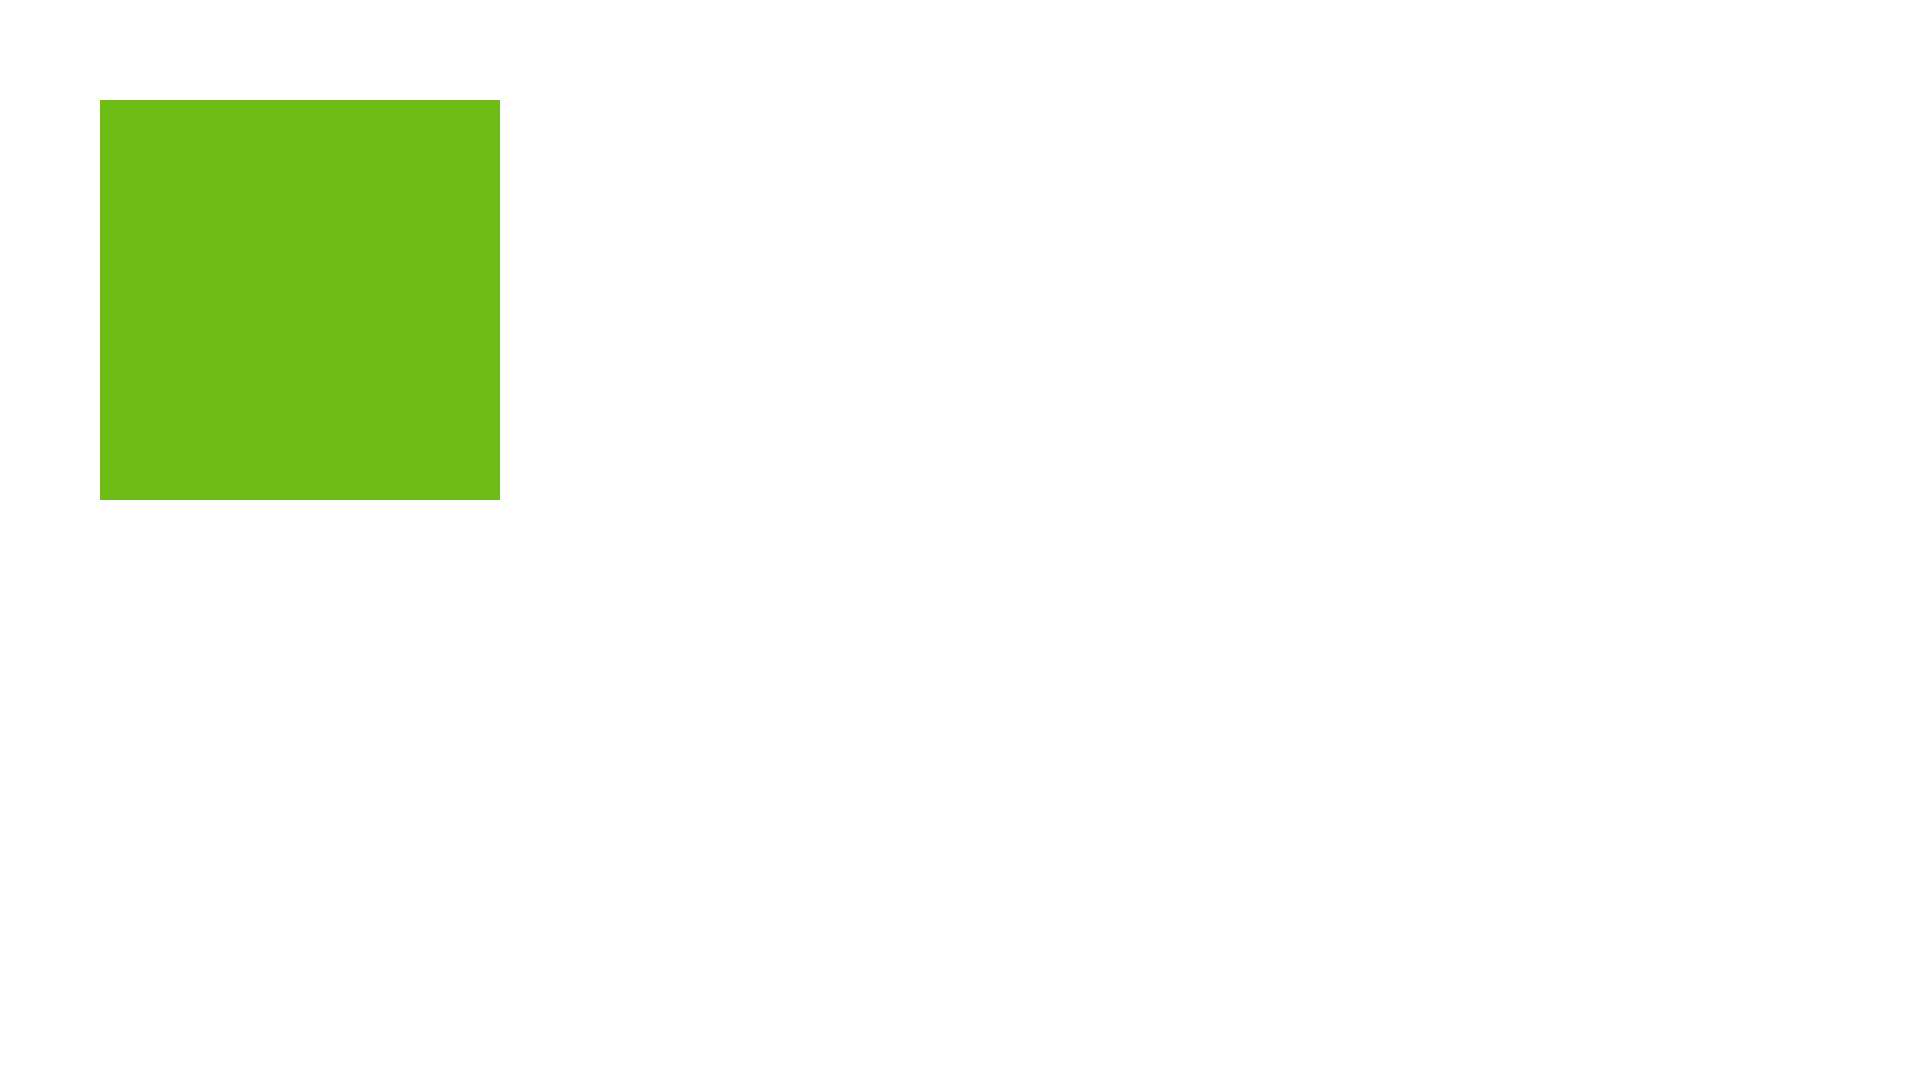
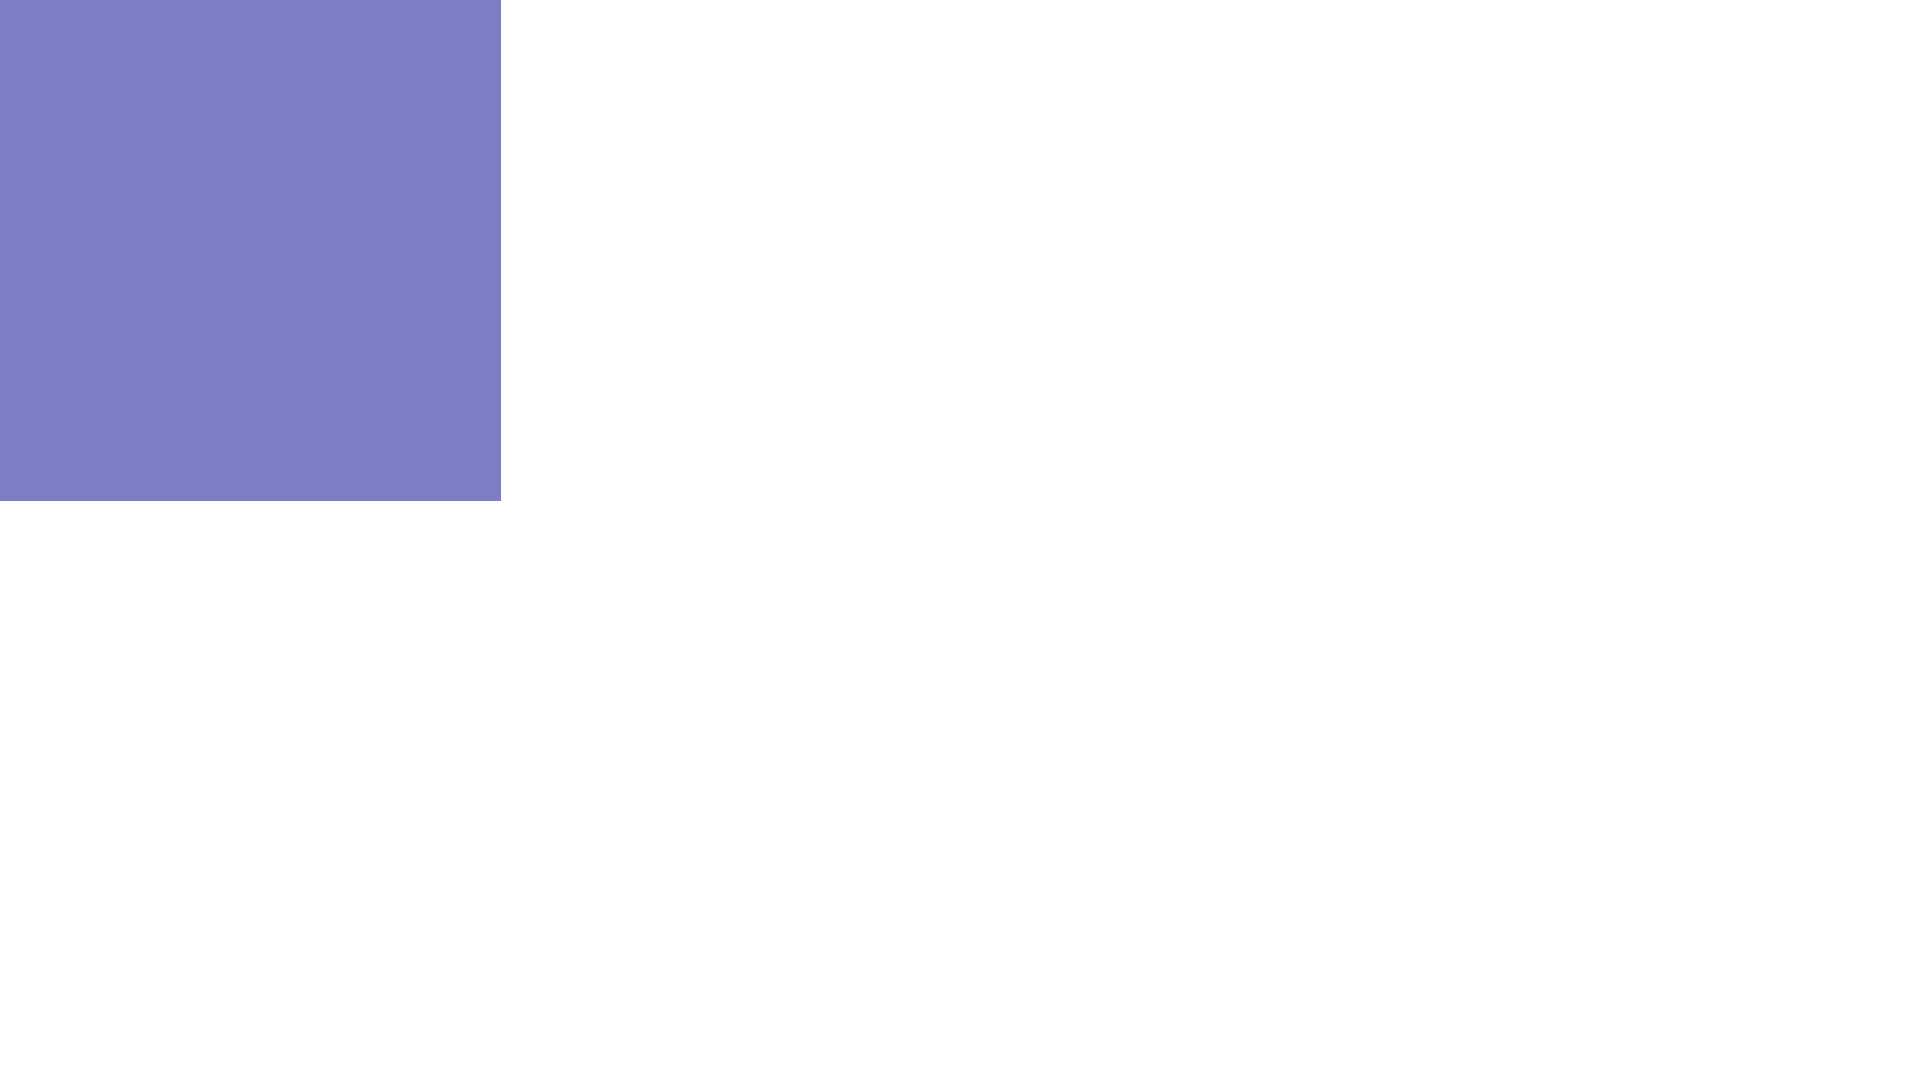
rework api entirely just because

Changed region(s): [[0.0, 0.0, 0.2812, 0.4889]]

diff --git a/rect.go b/rect.go
@@ -6,36 +6,17 @@ import (
 )
 
 type Rectangle struct {
-	Position Vector2     // The top-left corner of the rectangle
-	Size     Vector2     // The height and the width of the rectangle
-	Color    color.NRGBA // Fill color
+	Min   Vector2
+	Max   Vector2
+	Color color.NRGBA
 }
 
-func (r Rectangle) Render() *image.NRGBA {
-	img := image.NewNRGBA(r.GetBounds())
-	for y := 0; y < r.Size.Y; y++ {
-		for x := 0; x < r.Size.X; x++ {
+func (r Rectangle) Render(size Vector2) image.NRGBA {
+	img := image.NewNRGBA(image.Rect(0, 0, size.X, size.Y))
+	for y := r.Min.Y; y <= r.Max.Y; y++ {
+		for x := r.Min.X; x <= r.Max.X; x++ {
 			img.Set(x, y, r.Color)
 		}
 	}
-	return img
-}
-
-// Get the bounds of the rectangle
-func (r Rectangle) GetBounds() image.Rectangle {
-	return image.Rect(
-		0,
-		0,
-		r.Size.X,
-		r.Size.Y,
-	)
-}
-
-func (r Rectangle) GetRect() image.Rectangle {
-	return image.Rect(
-		r.Position.X,
-		r.Position.Y,
-		r.Position.X+r.Size.X,
-		r.Position.Y+r.Size.Y,
-	)
+	return *img
 }

diff --git a/main.go b/main.go
@@ -10,32 +10,37 @@ import (
 )
 
 // Draw the main image. Will be replaced with json later
-func draw() *image.NRGBA {
+func drawProject() image.NRGBA {
 	project := Project{
 		Resolution: Vector2{1920, 1080},
 		Main: Group{
 			Size: Vector2{1920, 1080},
 			Children: []Object{
 				Rectangle{
-					Position: Vector2{100, 100},
-					Size:     Vector2{500, 500},
-					Color:    color.NRGBA{R: 111, G: 188, B: 22, A: math.MaxUint8},
+					Min: Vector2{0, 0},
+					Max: Vector2{500, 500},
+					Color: color.NRGBA{
+						R: 123,
+						G: 126,
+						B: 199,
+						A: math.MaxUint8,
+					},
 				},
 			},
 		},
 	}
-	return project.Main.Render()
+	return project.Draw()
 }
 
 func main() {
-	img := draw()
+	img := drawProject()
 
 	f, err := os.Create("image.png")
 	if err != nil {
 		log.Fatal(err)
 	}
 
-	if err := png.Encode(f, img); err != nil {
+	if err := png.Encode(f, &img); err != nil {
 		f.Close()
 		log.Fatal(err)
 	}

diff --git a/group.go b/group.go
@@ -1,23 +1,20 @@
 package main
 
-import "image"
+import (
+	"image"
+	"image/draw"
+)
 
 type Group struct {
 	Size     Vector2  // Size of the group render. Make sure to pass from project
 	Children []Object // A list of objects to be rendered onto one layer
 }
 
-func (g Group) Render() *image.NRGBA {
-	img := image.NewNRGBA(image.Rect(0, 0, g.Size.X, g.Size.Y))
+func (g Group) Render(size Vector2) image.NRGBA {
+	img := image.NewNRGBA(image.Rect(0, 0, size.X, size.Y))
 	for _, child := range g.Children {
-		child_image := child.Render()
-
-		for y := 0; y < child.GetRect().Dy(); y++ {
-			for x := 0; x < child.GetRect().Dx(); x++ {
-				color := child_image.At(x, y)
-				img.Set(x+child.GetRect().Min.X, y+child.GetRect().Min.Y, color)
-			}
-		}
+		childImg := child.Render(size)
+		draw.Draw(img, image.Rect(0, 0, size.X, size.Y), &childImg, image.Point{}, draw.Over)
 	}
-	return img
+	return *img
 }

diff --git a/project.go b/project.go
@@ -1,5 +1,7 @@
 package main
 
+import "image"
+
 type Vector2 struct {
 	X int
 	Y int
@@ -8,4 +10,8 @@ type Vector2 struct {
 type Project struct {
 	Resolution Vector2
 	Main       Group // The group for the project to render.
+}
+
+func (p Project) Draw() image.NRGBA {
+	return p.Main.Render(p.Resolution)
 }

diff --git a/object.go b/object.go
@@ -3,6 +3,5 @@ package main
 import "image"
 
 type Object interface {
-	Render() *image.NRGBA
-	GetRect() image.Rectangle
+	Render(size Vector2) image.NRGBA
 }
